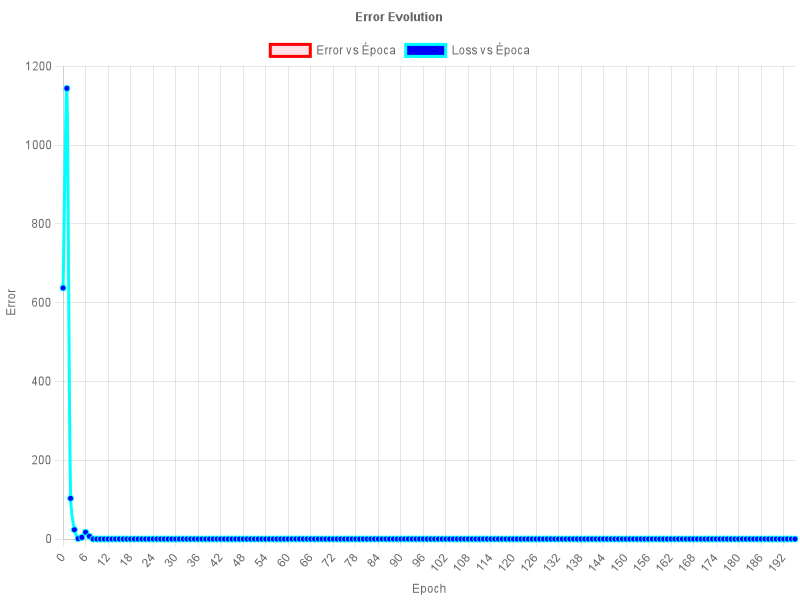
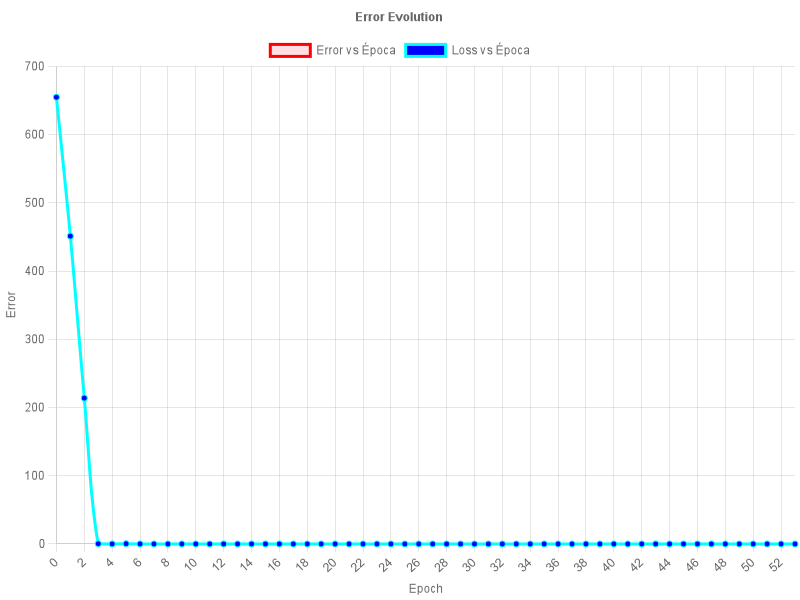
Trainer implemented

diff --git a/src/domain/entities/training/PerceptronTrainer.ts b/src/domain/entities/training/PerceptronTrainer.ts
@@ -1,0 +1,37 @@
+import {Trainer} from "../../interfaces/Trainer.ts";
+import {Perceptron} from "../Perceptron.ts";
+import {Optimizer} from "../../interfaces/Optimizer.ts";
+import {LossFunction} from "../../interfaces/LossFunction.ts";
+import {CanvasService} from "../../../application/services/CanvasService.ts";
+
+export class PerceptronTrainer implements Trainer {
+
+    constructor(public optimizer: Optimizer){}
+
+    public train(learningRate: number, errorMargin: number, perceptron: Perceptron, lossFunction: LossFunction, traningDataset: number[], targetFunction: Function): void {
+        let epochs = 0;
+        let lossHistory = [];
+
+        while(true) {
+             for(const element of traningDataset) {
+                 let target = targetFunction(element);
+                 const output = perceptron.forward([element])
+                 const error = target - output;
+
+                 epochs++;
+                 lossHistory.push(lossFunction.evaluate(output, target));
+
+                 if(Math.abs(error) < errorMargin) {
+                     console.info("Error", Math.abs(error));
+                     console.info("WEIGHTS", perceptron.weights, perceptron.bias);
+                     console.info("Solved!");
+                     const canvas = new CanvasService();
+                     canvas.printCanvas([], lossHistory, epochs, "Should arrive to the solution of y=2x");
+                     return;
+                 }
+
+                 perceptron.backward([element], target, this.optimizer.optimize(learningRate, 0.5, 100, epochs));
+             }
+        }
+    }
+}

diff --git a/tests/training/Trainer.test.ts b/tests/training/Trainer.test.ts
@@ -1,0 +1,30 @@
+import {IdentityActivationFunction} from "../../src/domain/entities/activation-functions/IdentityActivationFunction";
+import {Perceptron} from "../../src/domain/entities/Perceptron";
+import {PerceptronTrainer} from "../../src/domain/entities/training/PerceptronTrainer";
+import {BatchGradientDescent} from "../../src/domain/entities/BatchGradientDescent";
+import {MeanSquareErrorLossFunction} from "../../src/domain/entities/training/MeanSquareErrorLossFunction";
+
+describe("Trainer Tests", (): void => {
+    const errorMargin: number = 0.001;
+    const learningRate: number = 0.001;
+
+    it("Should train with adaptativeLearningRate and from -50 to 50 as input with a linear activation function", () => {
+        let weights: number[] = [0];
+        let bias: number = 0;
+        const activationFunction = new IdentityActivationFunction();
+        const lossFunction = new MeanSquareErrorLossFunction();
+        const trainingDataset = Array(2500).fill(0).map(() =>
+            (Math.random() - 0.5) * 100
+        );
+        const targetFunction: Function = (input:number) => 2*input;
+
+        const perceptron = new Perceptron(
+            weights,
+            bias,
+            activationFunction,
+        );
+
+        let trainer = new PerceptronTrainer(new BatchGradientDescent());
+        trainer.train(learningRate, errorMargin, perceptron, lossFunction, trainingDataset, targetFunction);
+    })
+})

diff --git a/src/domain/entities/BatchGradientDescent.ts b/src/domain/entities/BatchGradientDescent.ts
@@ -1,0 +1,8 @@
+import {Optimizer} from "../interfaces/Optimizer.ts";
+
+export class BatchGradientDescent implements Optimizer {
+    optimize(initialLearningRate: number, drop: number, dropRate: number, iteration: number): number {
+        return initialLearningRate * (Math.pow(drop, Math.floor((1 + iteration) / dropRate)));
+    }
+
+}

diff --git a/src/domain/interfaces/Trainer.ts b/src/domain/interfaces/Trainer.ts
@@ -1,0 +1,5 @@
+import {LossFunction} from "./LossFunction.ts";
+
+export interface Trainer {
+    train(learningRate: number, errorMargin: number, objectToTrain: object, lossFunction: LossFunction, traningDataset: number[], targetFunction: Function): void;
+}

diff --git a/src/domain/interfaces/Optimizer.ts b/src/domain/interfaces/Optimizer.ts
@@ -1,0 +1,3 @@
+export interface Optimizer {
+    optimize(initialLearningRate: number, drop: number, dropRate: number, iteration: number): number;
+}
